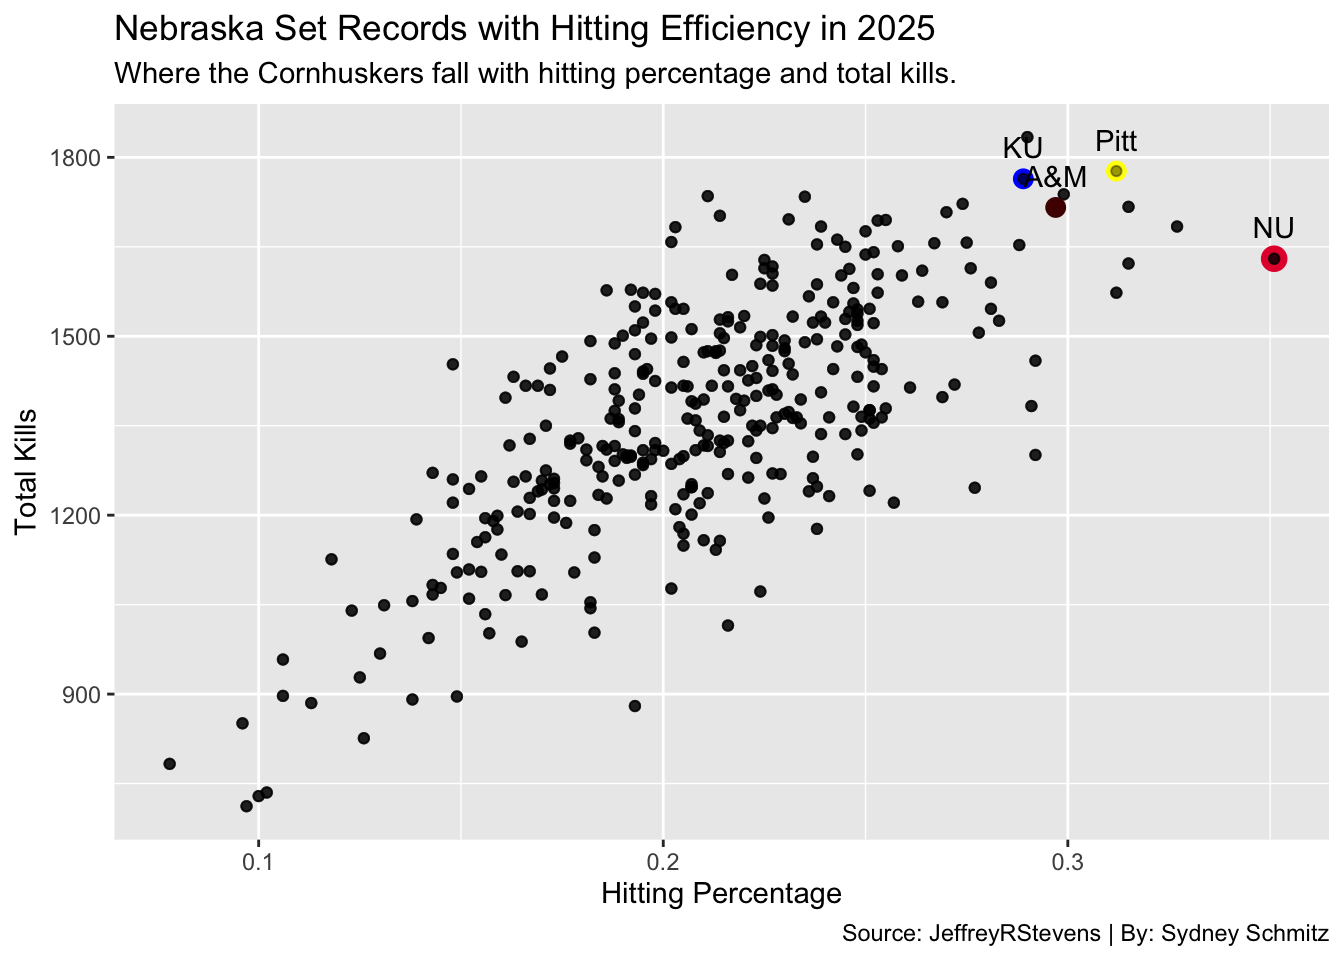
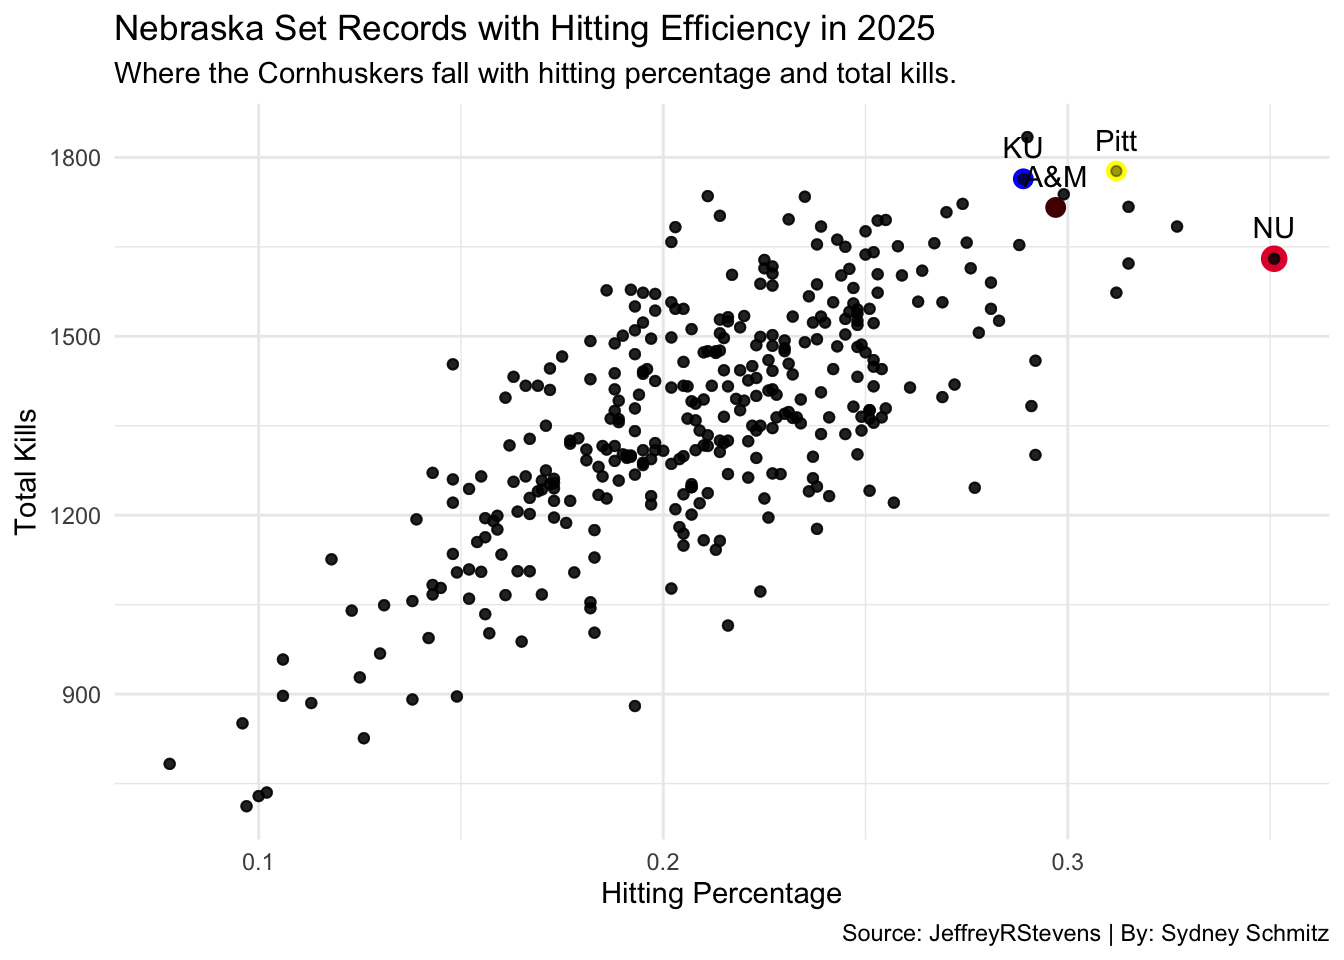
theme minimal to scatterplot

diff --git a/posts/nebraska-huskers-volleyball-2025/index.html b/posts/nebraska-huskers-volleyball-2025/index.html
@@ -425,23 +425,23 @@ pre > code.sourceCode > span > a:first-child::before { text-decoration: underlin
 <span id="cb1-55"><a href="#cb1-55" aria-hidden="true" tabindex="-1"></a>)</span></code></pre></div><button title="Copy to Clipboard" class="code-copy-button"><i class="bi"></i></button></div>
 </details>
 <div class="cell-output-display">
-<div id="jgulkktyvr" style="padding-left:0px;padding-right:0px;padding-top:10px;padding-bottom:10px;overflow-x:auto;overflow-y:auto;width:auto;height:auto;">
-<style>#jgulkktyvr table {
+<div id="znpqjmiarq" style="padding-left:0px;padding-right:0px;padding-top:10px;padding-bottom:10px;overflow-x:auto;overflow-y:auto;width:auto;height:auto;">
+<style>#znpqjmiarq table {
   font-family: system-ui, 'Segoe UI', Roboto, Helvetica, Arial, sans-serif, 'Apple Color Emoji', 'Segoe UI Emoji', 'Segoe UI Symbol', 'Noto Color Emoji';
   -webkit-font-smoothing: antialiased;
   -moz-osx-font-smoothing: grayscale;
 }
 
-#jgulkktyvr thead, #jgulkktyvr tbody, #jgulkktyvr tfoot, #jgulkktyvr tr, #jgulkktyvr td, #jgulkktyvr th {
+#znpqjmiarq thead, #znpqjmiarq tbody, #znpqjmiarq tfoot, #znpqjmiarq tr, #znpqjmiarq td, #znpqjmiarq th {
   border-style: none;
 }
 
-#jgulkktyvr p {
+#znpqjmiarq p {
   margin: 0;
   padding: 0;
 }
 
-#jgulkktyvr .gt_table {
+#znpqjmiarq .gt_table {
   display: table;
   border-collapse: collapse;
   line-height: normal;
@@ -467,12 +467,12 @@ pre > code.sourceCode > span > a:first-child::before { text-decoration: underlin
   border-left-color: #D3D3D3;
 }
 
-#jgulkktyvr .gt_caption {
+#znpqjmiarq .gt_caption {
   padding-top: 4px;
   padding-bottom: 4px;
 }
 
-#jgulkktyvr .gt_title {
+#znpqjmiarq .gt_title {
   color: #333333;
   font-size: 125%;
   font-weight: initial;
@@ -484,7 +484,7 @@ pre > code.sourceCode > span > a:first-child::before { text-decoration: underlin
   border-bottom-width: 0;
 }
 
-#jgulkktyvr .gt_subtitle {
+#znpqjmiarq .gt_subtitle {
   color: #333333;
   font-size: 85%;
   font-weight: initial;
@@ -496,7 +496,7 @@ pre > code.sourceCode > span > a:first-child::before { text-decoration: underlin
   border-top-width: 0;
 }
 
-#jgulkktyvr .gt_heading {
+#znpqjmiarq .gt_heading {
   background-color: #FFFFFF;
   text-align: center;
   border-bottom-color: #FFFFFF;
@@ -508,13 +508,13 @@ pre > code.sourceCode > span > a:first-child::before { text-decoration: underlin
   border-right-color: #D3D3D3;
 }
 
-#jgulkktyvr .gt_bottom_border {
+#znpqjmiarq .gt_bottom_border {
   border-bottom-style: solid;
   border-bottom-width: 2px;
   border-bottom-color: #D3D3D3;
 }
 
-#jgulkktyvr .gt_col_headings {
+#znpqjmiarq .gt_col_headings {
   border-top-style: solid;
   border-top-width: 2px;
   border-top-color: #D3D3D3;
@@ -529,7 +529,7 @@ pre > code.sourceCode > span > a:first-child::before { text-decoration: underlin
   border-right-color: #D3D3D3;
 }
 
-#jgulkktyvr .gt_col_heading {
+#znpqjmiarq .gt_col_heading {
   color: #333333;
   background-color: #FFFFFF;
   font-size: 100%;
@@ -549,7 +549,7 @@ pre > code.sourceCode > span > a:first-child::before { text-decoration: underlin
   overflow-x: hidden;
 }
 
-#jgulkktyvr .gt_column_spanner_outer {
+#znpqjmiarq .gt_column_spanner_outer {
   color: #333333;
   background-color: #FFFFFF;
   font-size: 100%;
@@ -561,15 +561,15 @@ pre > code.sourceCode > span > a:first-child::before { text-decoration: underlin
   padding-right: 4px;
 }
 
-#jgulkktyvr .gt_column_spanner_outer:first-child {
+#znpqjmiarq .gt_column_spanner_outer:first-child {
   padding-left: 0;
 }
 
-#jgulkktyvr .gt_column_spanner_outer:last-child {
+#znpqjmiarq .gt_column_spanner_outer:last-child {
   padding-right: 0;
 }
 
-#jgulkktyvr .gt_column_spanner {
+#znpqjmiarq .gt_column_spanner {
   border-bottom-style: solid;
   border-bottom-width: 2px;
   border-bottom-color: #D3D3D3;
@@ -581,11 +581,11 @@ pre > code.sourceCode > span > a:first-child::before { text-decoration: underlin
   width: 100%;
 }
 
-#jgulkktyvr .gt_spanner_row {
+#znpqjmiarq .gt_spanner_row {
   border-bottom-style: hidden;
 }
 
-#jgulkktyvr .gt_group_heading {
+#znpqjmiarq .gt_group_heading {
   padding-top: 8px;
   padding-bottom: 8px;
   padding-left: 5px;
@@ -611,7 +611,7 @@ pre > code.sourceCode > span > a:first-child::before { text-decoration: underlin
   text-align: left;
 }
 
-#jgulkktyvr .gt_empty_group_heading {
+#znpqjmiarq .gt_empty_group_heading {
   padding: 0.5px;
   color: #333333;
   background-color: #FFFFFF;
@@ -626,15 +626,15 @@ pre > code.sourceCode > span > a:first-child::before { text-decoration: underlin
   vertical-align: middle;
 }
 
-#jgulkktyvr .gt_from_md > :first-child {
+#znpqjmiarq .gt_from_md > :first-child {
   margin-top: 0;
 }
 
-#jgulkktyvr .gt_from_md > :last-child {
+#znpqjmiarq .gt_from_md > :last-child {
   margin-bottom: 0;
 }
 
-#jgulkktyvr .gt_row {
+#znpqjmiarq .gt_row {
   padding-top: 8px;
   padding-bottom: 8px;
   padding-left: 5px;
@@ -653,7 +653,7 @@ pre > code.sourceCode > span > a:first-child::before { text-decoration: underlin
   overflow-x: hidden;
 }
 
-#jgulkktyvr .gt_stub {
+#znpqjmiarq .gt_stub {
   color: #333333;
   background-color: #FFFFFF;
   font-size: 100%;
@@ -666,7 +666,7 @@ pre > code.sourceCode > span > a:first-child::before { text-decoration: underlin
   padding-right: 5px;
 }
 
-#jgulkktyvr .gt_stub_row_group {
+#znpqjmiarq .gt_stub_row_group {
   color: #333333;
   background-color: #FFFFFF;
   font-size: 100%;
@@ -680,15 +680,15 @@ pre > code.sourceCode > span > a:first-child::before { text-decoration: underlin
   vertical-align: top;
 }
 
-#jgulkktyvr .gt_row_group_first td {
+#znpqjmiarq .gt_row_group_first td {
   border-top-width: 2px;
 }
 
-#jgulkktyvr .gt_row_group_first th {
+#znpqjmiarq .gt_row_group_first th {
   border-top-width: 2px;
 }
 
-#jgulkktyvr .gt_summary_row {
+#znpqjmiarq .gt_summary_row {
   color: #333333;
   background-color: #FFFFFF;
   text-transform: inherit;
@@ -698,16 +698,16 @@ pre > code.sourceCode > span > a:first-child::before { text-decoration: underlin
   padding-right: 5px;
 }
 
-#jgulkktyvr .gt_first_summary_row {
+#znpqjmiarq .gt_first_summary_row {
   border-top-style: solid;
   border-top-color: #D3D3D3;
 }
 
-#jgulkktyvr .gt_first_summary_row.thick {
+#znpqjmiarq .gt_first_summary_row.thick {
   border-top-width: 2px;
 }
 
-#jgulkktyvr .gt_last_summary_row {
+#znpqjmiarq .gt_last_summary_row {
   padding-top: 8px;
   padding-bottom: 8px;
   padding-left: 5px;
@@ -717,7 +717,7 @@ pre > code.sourceCode > span > a:first-child::before { text-decoration: underlin
   border-bottom-color: #D3D3D3;
 }
 
-#jgulkktyvr .gt_grand_summary_row {
+#znpqjmiarq .gt_grand_summary_row {
   color: #333333;
   background-color: #FFFFFF;
   text-transform: inherit;
@@ -727,7 +727,7 @@ pre > code.sourceCode > span > a:first-child::before { text-decoration: underlin
   padding-right: 5px;
 }
 
-#jgulkktyvr .gt_first_grand_summary_row {
+#znpqjmiarq .gt_first_grand_summary_row {
   padding-top: 8px;
   padding-bottom: 8px;
   padding-left: 5px;
@@ -737,7 +737,7 @@ pre > code.sourceCode > span > a:first-child::before { text-decoration: underlin
   border-top-color: #D3D3D3;
 }
 
-#jgulkktyvr .gt_last_grand_summary_row_top {
+#znpqjmiarq .gt_last_grand_summary_row_top {
   padding-top: 8px;
   padding-bottom: 8px;
   padding-left: 5px;
@@ -747,11 +747,11 @@ pre > code.sourceCode > span > a:first-child::before { text-decoration: underlin
   border-bottom-color: #D3D3D3;
 }
 
-#jgulkktyvr .gt_striped {
+#znpqjmiarq .gt_striped {
   background-color: rgba(128, 128, 128, 0.05);
 }
 
-#jgulkktyvr .gt_table_body {
+#znpqjmiarq .gt_table_body {
   border-top-style: solid;
   border-top-width: 2px;
   border-top-color: #D3D3D3;
@@ -760,7 +760,7 @@ pre > code.sourceCode > span > a:first-child::before { text-decoration: underlin
   border-bottom-color: #D3D3D3;
 }
 
-#jgulkktyvr .gt_footnotes {
+#znpqjmiarq .gt_footnotes {
   color: #333333;
   background-color: #FFFFFF;
   border-bottom-style: none;
@@ -774,7 +774,7 @@ pre > code.sourceCode > span > a:first-child::before { text-decoration: underlin
   border-right-color: #D3D3D3;
 }
 
-#jgulkktyvr .gt_footnote {
+#znpqjmiarq .gt_footnote {
   margin: 0px;
   font-size: 90%;
   padding-top: 4px;
@@ -783,7 +783,7 @@ pre > code.sourceCode > span > a:first-child::before { text-decoration: underlin
   padding-right: 5px;
 }
 
-#jgulkktyvr .gt_sourcenotes {
+#znpqjmiarq .gt_sourcenotes {
   color: #333333;
   background-color: #FFFFFF;
   border-bottom-style: none;
@@ -797,7 +797,7 @@ pre > code.sourceCode > span > a:first-child::before { text-decoration: underlin
   border-right-color: #D3D3D3;
 }
 
-#jgulkktyvr .gt_sourcenote {
+#znpqjmiarq .gt_sourcenote {
   font-size: 90%;
   padding-top: 4px;
   padding-bottom: 4px;
@@ -805,72 +805,72 @@ pre > code.sourceCode > span > a:first-child::before { text-decoration: underlin
   padding-right: 5px;
 }
 
-#jgulkktyvr .gt_left {
+#znpqjmiarq .gt_left {
   text-align: left;
 }
 
-#jgulkktyvr .gt_center {
+#znpqjmiarq .gt_center {
   text-align: center;
 }
 
-#jgulkktyvr .gt_right {
+#znpqjmiarq .gt_right {
   text-align: right;
   font-variant-numeric: tabular-nums;
 }
 
-#jgulkktyvr .gt_font_normal {
+#znpqjmiarq .gt_font_normal {
   font-weight: normal;
 }
 
-#jgulkktyvr .gt_font_bold {
+#znpqjmiarq .gt_font_bold {
   font-weight: bold;
 }
 
-#jgulkktyvr .gt_font_italic {
+#znpqjmiarq .gt_font_italic {
   font-style: italic;
 }
 
-#jgulkktyvr .gt_super {
+#znpqjmiarq .gt_super {
   font-size: 65%;
 }
 
-#jgulkktyvr .gt_footnote_marks {
+#znpqjmiarq .gt_footnote_marks {
   font-size: 75%;
   vertical-align: 0.4em;
   position: initial;
 }
 
-#jgulkktyvr .gt_asterisk {
+#znpqjmiarq .gt_asterisk {
   font-size: 100%;
   vertical-align: 0;
 }
 
-#jgulkktyvr .gt_indent_1 {
+#znpqjmiarq .gt_indent_1 {
   text-indent: 5px;
 }
 
-#jgulkktyvr .gt_indent_2 {
+#znpqjmiarq .gt_indent_2 {
   text-indent: 10px;
 }
 
-#jgulkktyvr .gt_indent_3 {
+#znpqjmiarq .gt_indent_3 {
   text-indent: 15px;
 }
 
-#jgulkktyvr .gt_indent_4 {
+#znpqjmiarq .gt_indent_4 {
   text-indent: 20px;
 }
 
-#jgulkktyvr .gt_indent_5 {
+#znpqjmiarq .gt_indent_5 {
   text-indent: 25px;
 }
 
-#jgulkktyvr .katex-display {
+#znpqjmiarq .katex-display {
   display: inline-flex !important;
   margin-bottom: 0.75em !important;
 }
 
-#jgulkktyvr div.Reactable > div.rt-table > div.rt-thead > div.rt-tr.rt-tr-group-header > div.rt-th-group:after {
+#znpqjmiarq div.Reactable > div.rt-table > div.rt-thead > div.rt-tr.rt-tr-group-header > div.rt-th-group:after {
   height: 0px !important;
 }
 </style>
@@ -1012,7 +1012,8 @@ pre > code.sourceCode > span > a:first-child::before { text-decoration: underlin
 <span id="cb3-38"><a href="#cb3-38" aria-hidden="true" tabindex="-1"></a>       <span class="at">subtitle =</span> <span class="st">"Where the Cornhuskers fall with hitting percentage and total kills."</span>,</span>
 <span id="cb3-39"><a href="#cb3-39" aria-hidden="true" tabindex="-1"></a>       <span class="at">caption =</span> <span class="st">"Source: JeffreyRStevens | By: Sydney Schmitz"</span>,</span>
 <span id="cb3-40"><a href="#cb3-40" aria-hidden="true" tabindex="-1"></a>       <span class="at">x=</span><span class="st">"Hitting Percentage"</span>,</span>
-<span id="cb3-41"><a href="#cb3-41" aria-hidden="true" tabindex="-1"></a>       <span class="at">y=</span><span class="st">"Total Kills"</span>)</span></code></pre></div><button title="Copy to Clipboard" class="code-copy-button"><i class="bi"></i></button></div>
+<span id="cb3-41"><a href="#cb3-41" aria-hidden="true" tabindex="-1"></a>       <span class="at">y=</span><span class="st">"Total Kills"</span>) <span class="sc">+</span></span>
+<span id="cb3-42"><a href="#cb3-42" aria-hidden="true" tabindex="-1"></a><span class="fu">theme_minimal</span>()</span></code></pre></div><button title="Copy to Clipboard" class="code-copy-button"><i class="bi"></i></button></div>
 </details>
 <div class="cell-output-display">
 <div>

diff --git a/index.html b/index.html
@@ -378,7 +378,7 @@ window.Quarto = {
 
 <div class="quarto-listing quarto-listing-container-default" id="listing-listing">
 <div class="list quarto-listing-default">
-<div class="quarto-post image-right" data-index="0" data-categories="TmVicmFza2ElMkNOQ0FBJTIwVm9sbGV5YmFsbA==" data-listing-date-sort="1777266000000" data-listing-file-modified-sort="1777227416740" data-listing-date-modified-sort="NaN" data-listing-reading-time-sort="9" data-listing-word-count-sort="1621">
+<div class="quarto-post image-right" data-index="0" data-categories="TmVicmFza2ElMkNOQ0FBJTIwVm9sbGV5YmFsbA==" data-listing-date-sort="1777266000000" data-listing-file-modified-sort="1777227888619" data-listing-date-modified-sort="NaN" data-listing-reading-time-sort="9" data-listing-word-count-sort="1619">
 <div class="thumbnail"><a href="./posts/nebraska-huskers-volleyball-2025/index.html" class="no-external">
 
 <p class="card-img-top"><img loading='lazy' src="posts/nebraska-huskers-volleyball-2025/index_files/figure-html/unnamed-chunk-2-1.png"  class="thumbnail-image card-img"/></p>
